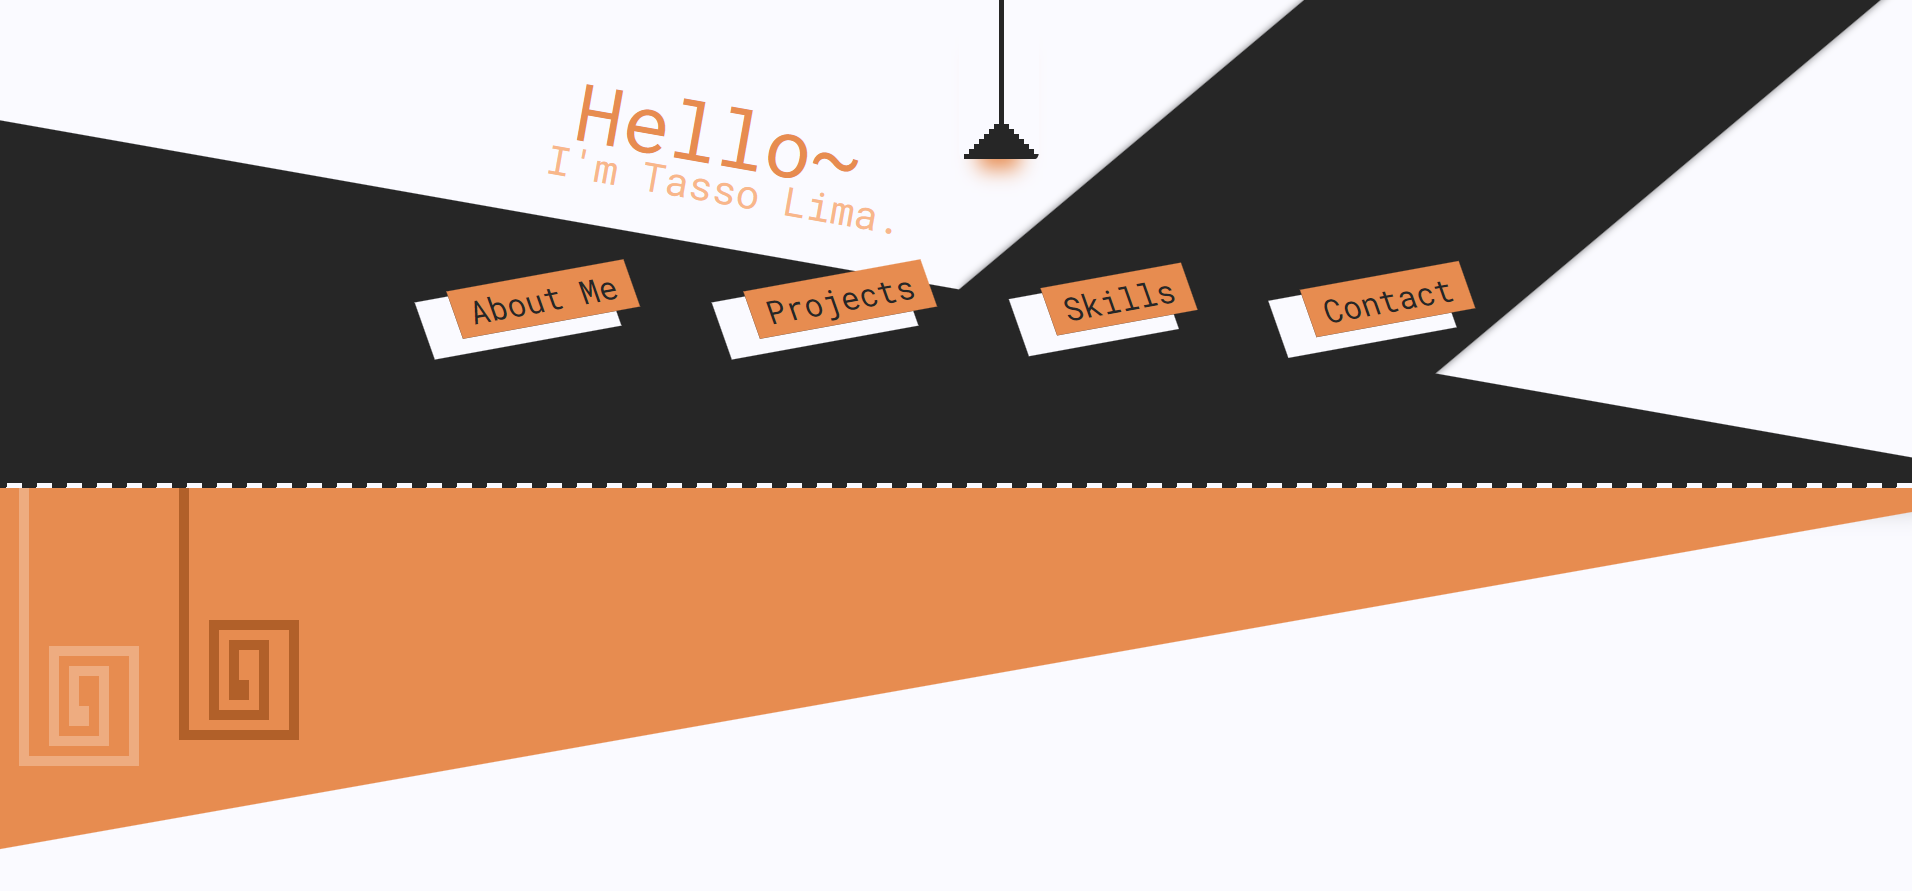
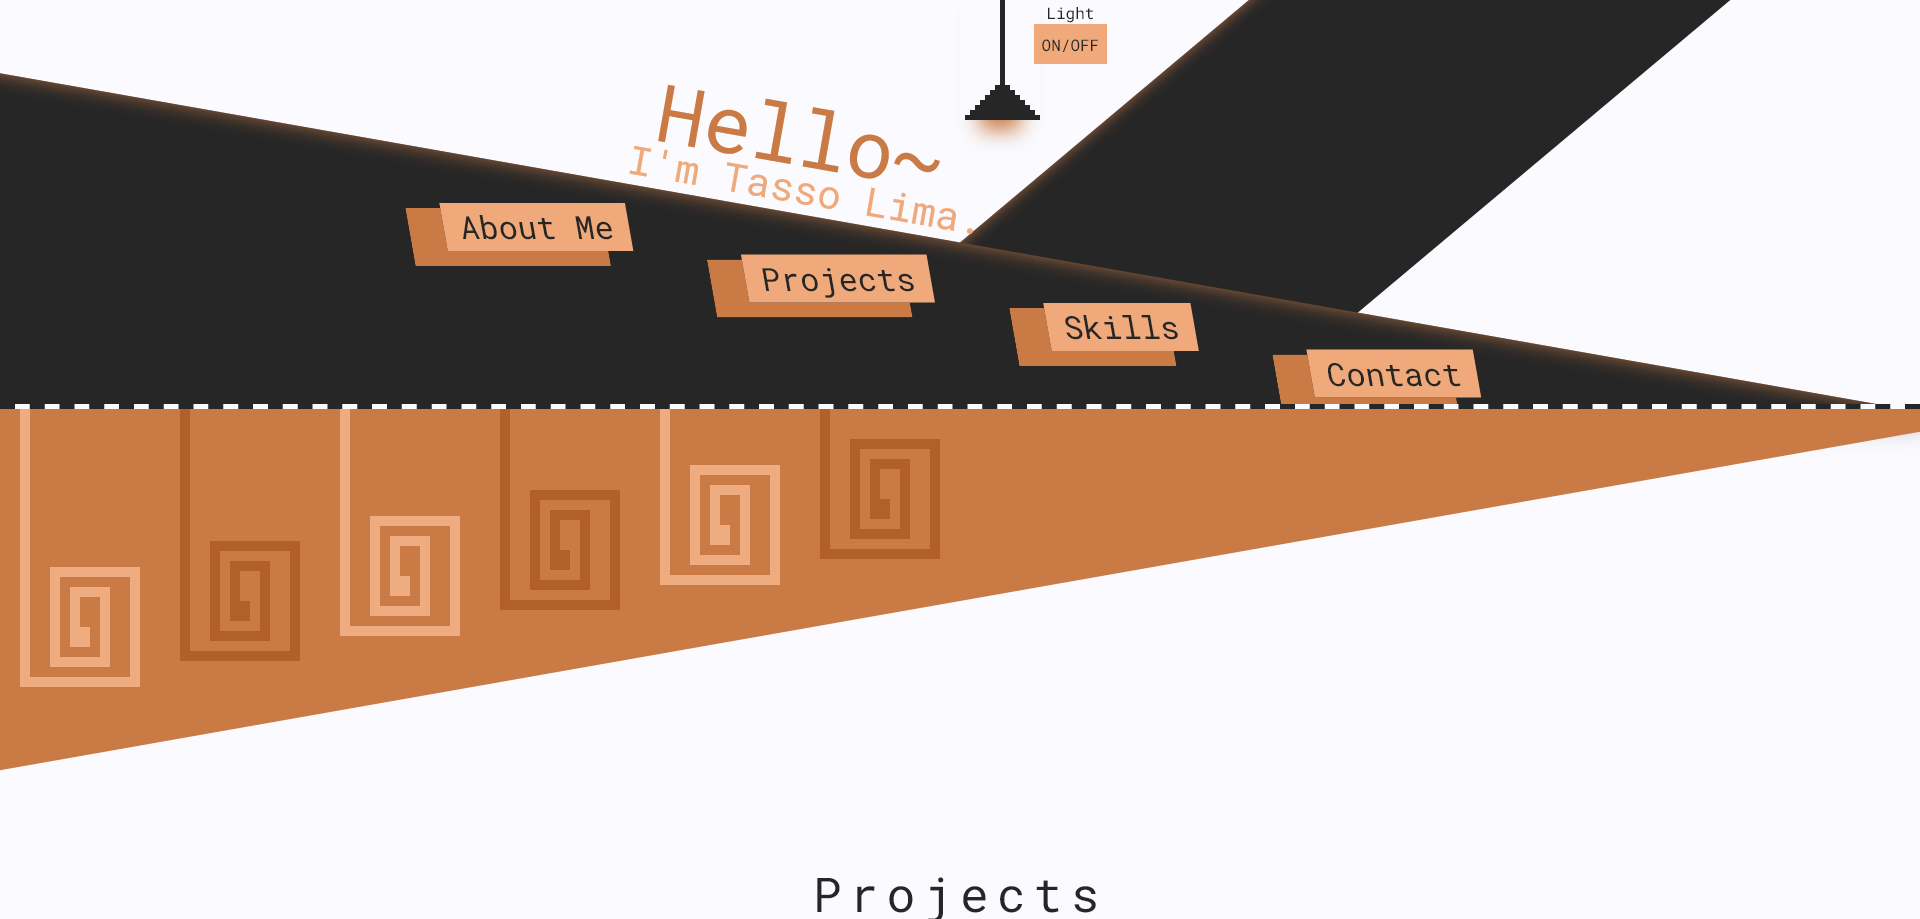
updated projects

diff --git a/index.html b/index.html
@@ -61,122 +61,167 @@
 
 
             <div class="project-container project-container--background">
-
-                <div class="project-container__card">
-                    <p class="project__p-name">Random Advice Generator</p>
-
-                    <img class="project__img" src="img/adviceGenerator.png" alt="">
-
-                    <p class="project-container__card-description">
-                        A challenge by Frontend Mentor. Built with <b>NextJS</b> and <b>Tailwind CSS.</b>
-                        This app fetches data from an advice slip <b>API</b> and displays a random advice on the screen.
-                        A fun little project that made me fall in love with these frameworks.
-                        </b>
-                    </p>
+                <div>
+                    <p class="project__p-name ">Interactive Comments Section</p>
+                    <div class="project-container__card ">
 
 
-                    <div class="project-footer-container">
-                        <div class="project-tech">
-                            <img src="img/JSPxl.png" alt="">
-                            <img src="img/CSSPxl.png" alt="">
-                            <img src="img/htmlPxl.png" alt="">
-                        </div>
-                        <div class="project-container__btn-wrapper">
-                            <button onclick="window.location.href='https://ninfarz.github.io/advice-generator';"
-                                class="project-container__card-btn">Live</button>
-                            <button onclick="window.location.href='https://github.com/NinfarZ/advice-generator';"
-                                class="project-container__card-btn">Github</button>
-                        </div>
-
-                    </div>
-                </div>
+                        <img class="project__img" src="img/comments-section.png" alt="">
+                        <div class="project-container__card-wrapper">
+                            <p class="project-container__card-description">
+                                A challenge by Frontend Mentor. Built with <b>NextJS</b> and <b>Tailwind CSS.</b>
+                                The user can <b>Create, Read, Update and Delete</b> comments.
+                                This was a challenging but really rewarding project.
+                                There's nothing more satisfying than getting stuck and solving a tough problem on your
+                                own.
+                                </b>
+                            </p>
 
 
-                <div class="project-container__card project-container__card--border-top">
-                    <p class="project__p-name">Culprit Rush</p>
+                            <div class="project-footer-container">
+                                <div class="project-container__btn-wrapper">
+                                    <button
+                                        onclick="window.location.href='https://interactive-comments-section-neon.vercel.app/';"
+                                        class="project-container__card-btn">Live</button>
+                                    <button
+                                        onclick="window.location.href='https://github.com/NinfarZ/interactive-comments-section';"
+                                        class="project-container__card-btn">Github</button>
+                                </div>
 
-                    <img class="project__img" src="img/culpritRushKilled.png" alt="">
-
-                    <p class="project-container__card-description">
-                        A feature rich murder mystery game built in <b>JavaScript / HTML / CSS.</b>
-                        Makes use of <b>OOP</b> and <b>ES6.</b> My goal was to create a mystery game that's
-                        unpredictable
-                        every time.
-                        Characters will move around, interact with others, influence each other's moods, and even LIE
-                        to get away.
-                        I am quite happy with the results so far. Definitely a project I want to expand on.
-                        </b>
-                    </p>
-
-
-                    <div class="project-footer-container">
-                        <div class="project-tech">
-                            <img src="img/JSPxl.png" alt="">
-                            <img src="img/CSSPxl.png" alt="">
-                            <img src="img/htmlPxl.png" alt="">
-                        </div>
-                        <div class="project-container__btn-wrapper">
-                            <button onclick="window.location.href='https://ninfarz.github.io/Culprit-Rush-HTML5';"
-                                class="project-container__card-btn">Live</button>
-                            <button onclick="window.location.href='https://github.com/NinfarZ/Culprit-Rush-HTML5';"
-                                class="project-container__card-btn">Github</button>
+                            </div>
                         </div>
 
                     </div>
                 </div>
 
-                <div class="project-container__card project-container__card--border-top">
-                    <p class="project__p-name">This Portfolio</p>
+                <div>
+                    <p class="project__p-name project-container__card--border-top">Random Advice Generator</p>
+                    <div class="project-container__card ">
 
-                    <img class="project__img" src="img/portfolioPic.png" alt="">
+                        <img class="project__img" src="img/adviceGenerator.png" alt="">
+                        <div class="project-container__card-wrapper">
+                            <p class="project-container__card-description">
+                                A challenge by Frontend Mentor. Built with <b>NextJS</b> and <b>Tailwind CSS.</b>
+                                This app fetches data from an advice slip <b>API</b> and displays a random advice on the
+                                screen.
+                                A fun little project that made me fall in love with these frameworks.
+                                </b>
+                            </p>
 
-                    <p class="project-container__card-description">
-                        I wanted this page to match the
-                        energy of the projects within. I experimented with the CSS <b>BEM methodology</b> and used the
-                        <b>Intersection
-                            Observer API</b> for extra spice. At the end of the day, it's a bit on the spooky side if
-                        you turn
-                        on dark mode.
-                    </p>
-                    <div class="project-footer-container">
-                        <div class="project-tech">
-                            <img src="img/JSPxl.png" alt="">
-                            <img src="img/CSSPxl.png" alt="">
-                            <img src="img/htmlPxl.png" alt="">
-                        </div>
-                        <div class="project-container__btn-wrapper">
 
-                            <button onclick="window.location.href='https://github.com/NinfarZ/ninfarz.github.io';"
-                                class="project-container__card-btn">Github</button>
-                        </div>
+                            <div class="project-footer-container">
+                                <div class="project-container__btn-wrapper">
+                                    <button onclick="window.location.href='https://ninfarz.github.io/advice-generator';"
+                                        class="project-container__card-btn">Live</button>
+                                    <button
+                                        onclick="window.location.href='https://github.com/NinfarZ/advice-generator';"
+                                        class="project-container__card-btn">Github</button>
+                                </div>
 
-                    </div>
-
-                </div>
-
-                <div class="project-container__card project-container__card--border-top">
-                    <p class="project__p-name">Welcome Home</p>
-
-                    <img class="project__img" src="img/NewTileScreen.png" alt="">
-
-                    <p class="project-container__card-description">
-                        An ambitous horror game built in the <b>Godot Engine.</b>
-                        It was super fun and challenging to concieve and made me grow a lot as a developer.
-                        Features a wide range of randomized events and surprises that make every playtrhough unique.
-                    </p>
-                    <div class="project-footer-container">
-                        <div class="project-container__btn-wrapper">
-                            <button onclick="window.location.href='https://ninfar.itch.io/welcome-home';"
-                                class="project-container__card-btn">Page</button>
-                            <button onclick="window.location.href='https://github.com/NinfarZ/Welcome-Home';"
-                                class="project-container__card-btn">Github</button>
+                            </div>
                         </div>
 
                     </div>
-
-                    <img class="scary-face hide-scary-face" src="img/scaryFace.png" alt="">
-
                 </div>
+
+                <div>
+                    <p class="project__p-name project-container__card--border-top">Culprit Rush</p>
+                    <div class="project-container__card ">
+
+                        <img class="project__img" src="img/culpritRushKilled.png" alt="">
+                        <div class="project-container__card-wrapper">
+                            <p class="project-container__card-description">
+                                A feature rich murder mystery game built in <b>JavaScript / HTML / CSS.</b>
+                                Makes use of <b>OOP</b> and <b>ES6.</b> My goal was to create a mystery game that's
+                                unpredictable
+                                every time.
+                                Characters will move around, interact with others, influence each other's moods, and
+                                even
+                                LIE
+                                to get away.
+                                I am quite happy with the results so far. Definitely a project I want to expand on.
+                                </b>
+                            </p>
+
+
+                            <div class="project-footer-container">
+                                <div class="project-container__btn-wrapper">
+                                    <button
+                                        onclick="window.location.href='https://ninfarz.github.io/Culprit-Rush-HTML5';"
+                                        class="project-container__card-btn">Live</button>
+                                    <button
+                                        onclick="window.location.href='https://github.com/NinfarZ/Culprit-Rush-HTML5';"
+                                        class="project-container__card-btn">Github</button>
+                                </div>
+
+                            </div>
+                        </div>
+
+                    </div>
+                </div>
+
+                <div>
+                    <p class="project__p-name project-container__card--border-top">This Portfolio</p>
+                    <div class="project-container__card ">
+                        <img class="project__img" src="img/portfolioPic.png" alt="">
+                        <div class="project-container__card-wrapper">
+                            <p class="project-container__card-description">
+                                I wanted this page to match the
+                                energy of the projects within. I experimented with the CSS <b>BEM methodology</b> and
+                                used
+                                the
+                                <b>Intersection
+                                    Observer API</b> for extra spice. At the end of the day, it's a bit on the spooky
+                                side
+                                if
+                                you turn
+                                on dark mode.
+                            </p>
+                            <div class="project-footer-container">
+                                <div class="project-container__btn-wrapper">
+
+                                    <button
+                                        onclick="window.location.href='https://github.com/NinfarZ/ninfarz.github.io';"
+                                        class="project-container__card-btn">Github</button>
+                                </div>
+
+                            </div>
+                        </div>
+
+
+                    </div>
+                </div>
+
+                <div>
+                    <p class="project__p-name project-container__card--border-top">Welcome Home</p>
+                    <div class="project-container__card ">
+                        <img class="project__img" src="img/NewTileScreen.png" alt="">
+                        <div class="project-container__card-wrapper">
+                            <p class="project-container__card-description">
+                                An ambitous horror game built in the <b>Godot Engine.</b>
+                                Not a front-end project. But I'm proud of it and made me grow a lot as a developer.
+                                Features a wide range of randomized events and surprises that make every playtrhough
+                                unique. I implemented <b>state machines</b>, <b>path finding</b>, <b>raycasting</b>,
+                                <b>UI</b>
+                                and many other
+                            </p>
+                            <div class="project-footer-container">
+                                <div class="project-container__btn-wrapper">
+                                    <button onclick="window.location.href='https://ninfar.itch.io/welcome-home';"
+                                        class="project-container__card-btn">Page</button>
+                                    <button onclick="window.location.href='https://github.com/NinfarZ/Welcome-Home';"
+                                        class="project-container__card-btn">Github</button>
+                                </div>
+
+                            </div>
+
+                        </div>
+
+                        <img class="scary-face hide-scary-face" src="img/scaryFace.png" alt="scary-face">
+
+                    </div>
+                </div>
+
 
             </div>
         </section>

diff --git a/styles.css b/styles.css
@@ -358,7 +358,7 @@ b {
     width: 30%;
     height: auto;
     inset: 0;
-    transform: translateY(-60%);
+    transform: translateX(-35%) rotate(-20deg);
     transition: transform 2s;
     z-index: -1;
 
@@ -390,6 +390,7 @@ b {
     display: flex;
     align-items: center;
     flex-direction: column;
+
 }
 
 
@@ -414,7 +415,7 @@ b {
 .project-container {
     display: grid;
     column-gap: 2rem;
-    grid-template-columns: repeat(auto-fit, minmax(15rem, 1fr));
+    grid-template-columns: repeat(auto-fit, minmax(50rem, 1fr));
     margin: 2rem;
 
 }
@@ -422,7 +423,8 @@ b {
 .project__img {
     width: 100%;
     height: auto;
-    aspect-ratio: 2 / 1;
+
+    object-fit: cover;
     border: 5px dashed var(--primary);
     box-shadow: 0 0 5px 0 var(--shadow);
 
@@ -432,16 +434,24 @@ b {
     position: relative;
     display: flex;
     flex-direction: column;
-    justify-content: space-between;
+
+    min-height: 42rem;
 
 
     border-left: 2px dashed var(--background);
-    box-shadow: -3px 0 5px 0 var(--shadow);
+
     background-color: var(--card-background);
 
 
     padding: 1em 1.5em 1em 1.5em;
 
+}
+
+.project-container__card-wrapper {
+    display: flex;
+    flex-direction: column;
+    flex-grow: 1;
+    justify-content: space-between;
 }
 
 .project-container__card--border-top {
@@ -450,7 +460,7 @@ b {
 
 
 .project-container__card-description {
-    border-top: solid 2px var(--frontground);
+
     background-color: var(--card-background);
     padding: 1em 1em 1em 1em;
     isolation: isolate;
@@ -460,10 +470,6 @@ b {
 
 
 }
-
-
-
-
 
 .project-container a {
     margin: 1rem 1rem 1rem 1rem;
@@ -516,7 +522,9 @@ b {
 .project__p-name {
     color: var(--secondary);
     font-size: 2rem;
+
     text-align: center;
+    background-color: var(--background);
 }
 
 .skills {
